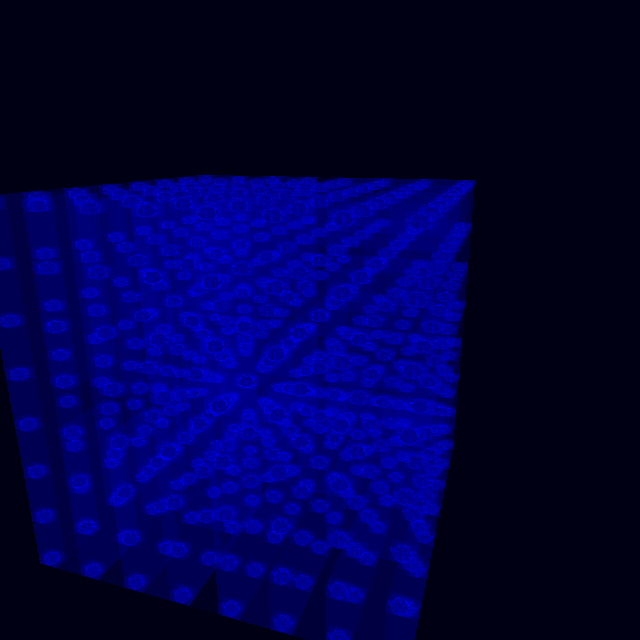
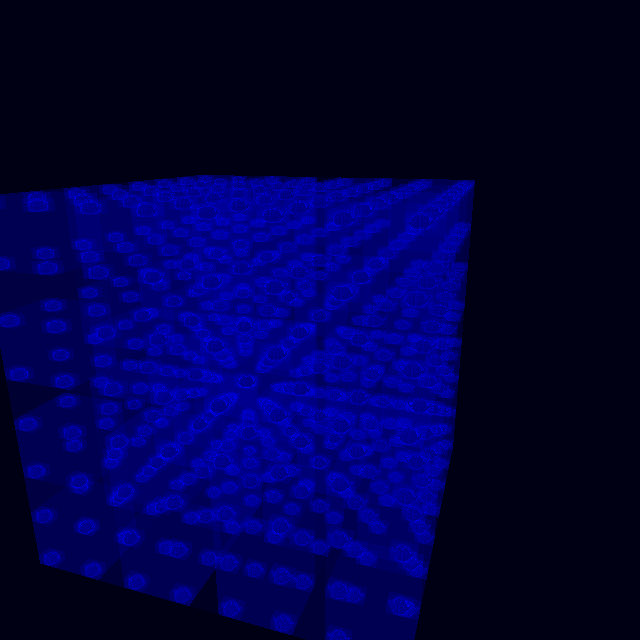
added longest axis splitting

diff --git a/src/acceleration/splitting/GeometricalSplitter.java b/src/acceleration/splitting/GeometricalSplitter.java
@@ -1,5 +1,6 @@
-package acceleration;
+package acceleration.splitting;
 
+import acceleration.BV;
 import math.Point;
 import math.Transformation;
 import shape.BVInstance;
@@ -12,20 +13,50 @@ public class GeometricalSplitter extends Splitter {
 	static {
 		instance = new GeometricalSplitter();
 	}
-
+	private static SplitMode mode;
 	private GeometricalSplitter(){
 		super();
 	};
 	
 	@Override
 	public Pair<BV, BV> split(BV parent) {
+		if (mode.equals(SplitMode.ALTERNATING)) {
+			return splitAlternating(parent);
+		} else if (mode.equals(SplitMode.ALL_AXIS)) {
+			return splitAllAxes(parent);
+		} else if (mode.equals(SplitMode.LONGEST_AXIS)) {
+			return splitLongest(parent);
+		}
+		return null;
+	}
+	
+
+	private Pair<BV, BV> splitLongest(BV parent) {
+		double x = parent.getRightTop().x - parent.getLeftBottom().x;
+		double y = parent.getRightTop().y - parent.getLeftBottom().y;
+		double z = parent.getRightTop().z - parent.getLeftBottom().z;
+		if (x >= y && x >= z) {
+			currentSplit = SPLIT_X;
+		} else if (y >= x && y >= z) {
+			currentSplit = SPLIT_Y;
+		} else if (z >= x && z >= y) {
+			currentSplit = SPLIT_Z;
+		}
+		return splitAlternating(parent);
+	}
+
+	private Pair<BV, BV> splitAllAxes(BV parent) {
+		// TODO Auto-generated method stub
+		return null;
+	}
+
+	public Pair<BV, BV> splitAlternating(BV parent) {
 		Point leftBottom = new Point(Double.MAX_VALUE, Double.MAX_VALUE, Double.MAX_VALUE);
 		Point rightTop = new Point(-Double.MAX_VALUE, -Double.MAX_VALUE, -Double.MAX_VALUE);
 		BV first = new BV(leftBottom, rightTop);
 		BV second = new BV(leftBottom, rightTop);
 		double middle = (getCurrentSplitValue(parent.getLeftBottom()) + getCurrentSplitValue(parent.getRightTop()))
 				/ 2;
-		System.out.println("------------");
 		for (Shape shape : parent.getShapes()) {
 			if ((currentSplit == SPLIT_X && shape.getCentric().x < middle)
 					|| (currentSplit == SPLIT_Y && shape.getCentric().y < middle)
@@ -46,15 +77,11 @@ public class GeometricalSplitter extends Splitter {
 			}
 		}
 		currentSplit = (currentSplit + 1) % 3;
-		
-		System.out.println(parent.getShapes().size());
-		System.out.println(first.getShapes().size());
-		System.out.println(second.getShapes().size());
-		
 		return new Pair<BV, BV>(first, second);
 	}
 	
-	public static Splitter get() {
+	public static Splitter get(SplitMode splitmode) {
+		mode = splitmode;
 		return instance;
 	}
 

diff --git a/src/acceleration/splitting/SAHSplitter.java b/src/acceleration/splitting/SAHSplitter.java
@@ -1,8 +1,9 @@
-package acceleration;
+package acceleration.splitting;
 
 import java.util.ArrayList;
 import java.util.List;
 
+import acceleration.BV;
 import math.Point;
 import math.Transformation;
 import shape.BVInstance;
@@ -15,13 +16,43 @@ public class SAHSplitter extends Splitter {
 	static {
 		instance = new SAHSplitter();
 	}
-	
+	private static SplitMode mode;
 	private SAHSplitter(){
 		super();
 	}
 	
 	@Override
 	public Pair<BV, BV> split(BV parent) {
+		if (mode.equals(SplitMode.ALTERNATING)) {
+			return splitAlternating(parent);
+		} else if (mode.equals(SplitMode.ALL_AXIS)) {
+			return splitAllAxes(parent);
+		} else if (mode.equals(SplitMode.LONGEST_AXIS)) {
+			return splitLongest(parent);
+		}
+		return null;
+	}
+
+	private Pair<BV, BV> splitLongest(BV parent) {
+		double x = parent.getRightTop().x - parent.getLeftBottom().x;
+		double y = parent.getRightTop().y - parent.getLeftBottom().y;
+		double z = parent.getRightTop().z - parent.getLeftBottom().z;
+		if (x >= y && x >= z) {
+			currentSplit = SPLIT_X;
+		} else if (y >= x && y >= z) {
+			currentSplit = SPLIT_Y;
+		} else if (z >= x && z >= y) {
+			currentSplit = SPLIT_Z;
+		}
+		return splitAlternating(parent);
+	}
+
+	private Pair<BV, BV> splitAllAxes(BV parent) {
+		// TODO Auto-generated method stub
+		return null;
+	}
+
+	public Pair<BV, BV> splitAlternating(BV parent) {
 		double distance = getCurrentSplitValue(parent.getRightTop()) - getCurrentSplitValue(parent.getLeftBottom());
 		List<Double> binBoundaries = new ArrayList<>();
 		List<BV> bins = new ArrayList<>();
@@ -77,8 +108,8 @@ public class SAHSplitter extends Splitter {
 		currentSplit = (currentSplit + 1) % 3;
 		return currentBest;
 	}
-
-	public static Splitter get() {
+	public static Splitter get(SplitMode splitmode) {
+		mode = splitmode;
 		return instance;
 	}
 }

diff --git a/src/acceleration/splitting/MedianSplitter.java b/src/acceleration/splitting/MedianSplitter.java
@@ -1,9 +1,10 @@
-package acceleration;
+package acceleration.splitting;
 
 import java.util.ArrayList;
 import java.util.Arrays;
 import java.util.List;
 
+import acceleration.BV;
 import math.Point;
 import math.Transformation;
 import shape.BVInstance;
@@ -16,13 +17,47 @@ public class MedianSplitter extends Splitter {
 	static {
 		instance = new MedianSplitter();
 	}
-	
+	private static SplitMode mode;
 	private MedianSplitter(){
 		super();
 	}
 	
+	
 	@Override
 	public Pair<BV, BV> split(BV parent) {
+		if (mode.equals(SplitMode.ALTERNATING)) {
+			return splitAlternating(parent);
+		} else if (mode.equals(SplitMode.ALL_AXIS)) {
+			return splitAllAxes(parent);
+		} else if (mode.equals(SplitMode.LONGEST_AXIS)) {
+			return splitLongest(parent);
+		}
+		return null;
+	}
+	
+	
+	private Pair<BV, BV> splitLongest(BV parent) {
+		double x = parent.getRightTop().x - parent.getLeftBottom().x;
+		double y = parent.getRightTop().y - parent.getLeftBottom().y;
+		double z = parent.getRightTop().z - parent.getLeftBottom().z;
+		if (x >= y && x >= z) {
+			currentSplit = SPLIT_X;
+		} else if (y >= x && y >= z) {
+			currentSplit = SPLIT_Y;
+		} else if (z >= x && z >= y) {
+			currentSplit = SPLIT_Z;
+		}
+		return splitAlternating(parent);
+	}
+
+
+	private Pair<BV, BV> splitAllAxes(BV parent) {
+		// TODO Auto-generated method stub
+		return null;
+	}
+
+
+	public Pair<BV, BV> splitAlternating(BV parent) {
 		List<Double> xs = new ArrayList<>();
 		for (Shape shape : parent.getShapes()) {
 			xs.add(getCurrentSplitValue(shape.getCentric()));
@@ -58,7 +93,8 @@ public class MedianSplitter extends Splitter {
 		return new Pair<BV, BV>(first, second);
 	}
 
-	public static Splitter get() {
+	public static Splitter get(SplitMode splitmode) {
+		mode = splitmode;
 		return instance;
 	}
 }

diff --git a/src/acceleration/BVH.java b/src/acceleration/BVH.java
@@ -3,6 +3,9 @@ package acceleration;
 import java.util.ArrayList;
 import java.util.List;
 
+import acceleration.splitting.SAHSplitter;
+import acceleration.splitting.SplitMode;
+import acceleration.splitting.Splitter;
 import math.Point;
 import math.Transformation;
 import shape.BVInstance;
@@ -15,7 +18,7 @@ public class BVH {
 
 	private static final int nb_shapes = 8;
 
-	private static Splitter splitter = SAHSplitter.get();
+	private static Splitter splitter = SAHSplitter.get(SplitMode.LONGEST_AXIS);
 	
 	@SuppressWarnings("unchecked")
 	public static List<ShapeInstance> createBVH(List<ShapeInstance> wrappers) {

diff --git a/src/acceleration/splitting/Splitter.java b/src/acceleration/splitting/Splitter.java
@@ -1,5 +1,6 @@
-package acceleration;
+package acceleration.splitting;
 
+import acceleration.BV;
 import math.Point;
 import util.Pair;
 
@@ -17,7 +18,7 @@ public abstract class Splitter {
 	
 	public abstract Pair<BV, BV> split(BV parent);
 	
-	public static Splitter get() {
+	public static Splitter get(SplitMode mode) {
 		return instance;
 	}
 	

diff --git a/src/acceleration/splitting/SplitMode.java b/src/acceleration/splitting/SplitMode.java
@@ -1,0 +1,5 @@
+package acceleration.splitting;
+
+public enum SplitMode {
+	ALTERNATING, ALL_AXIS, LONGEST_AXIS;
+}
